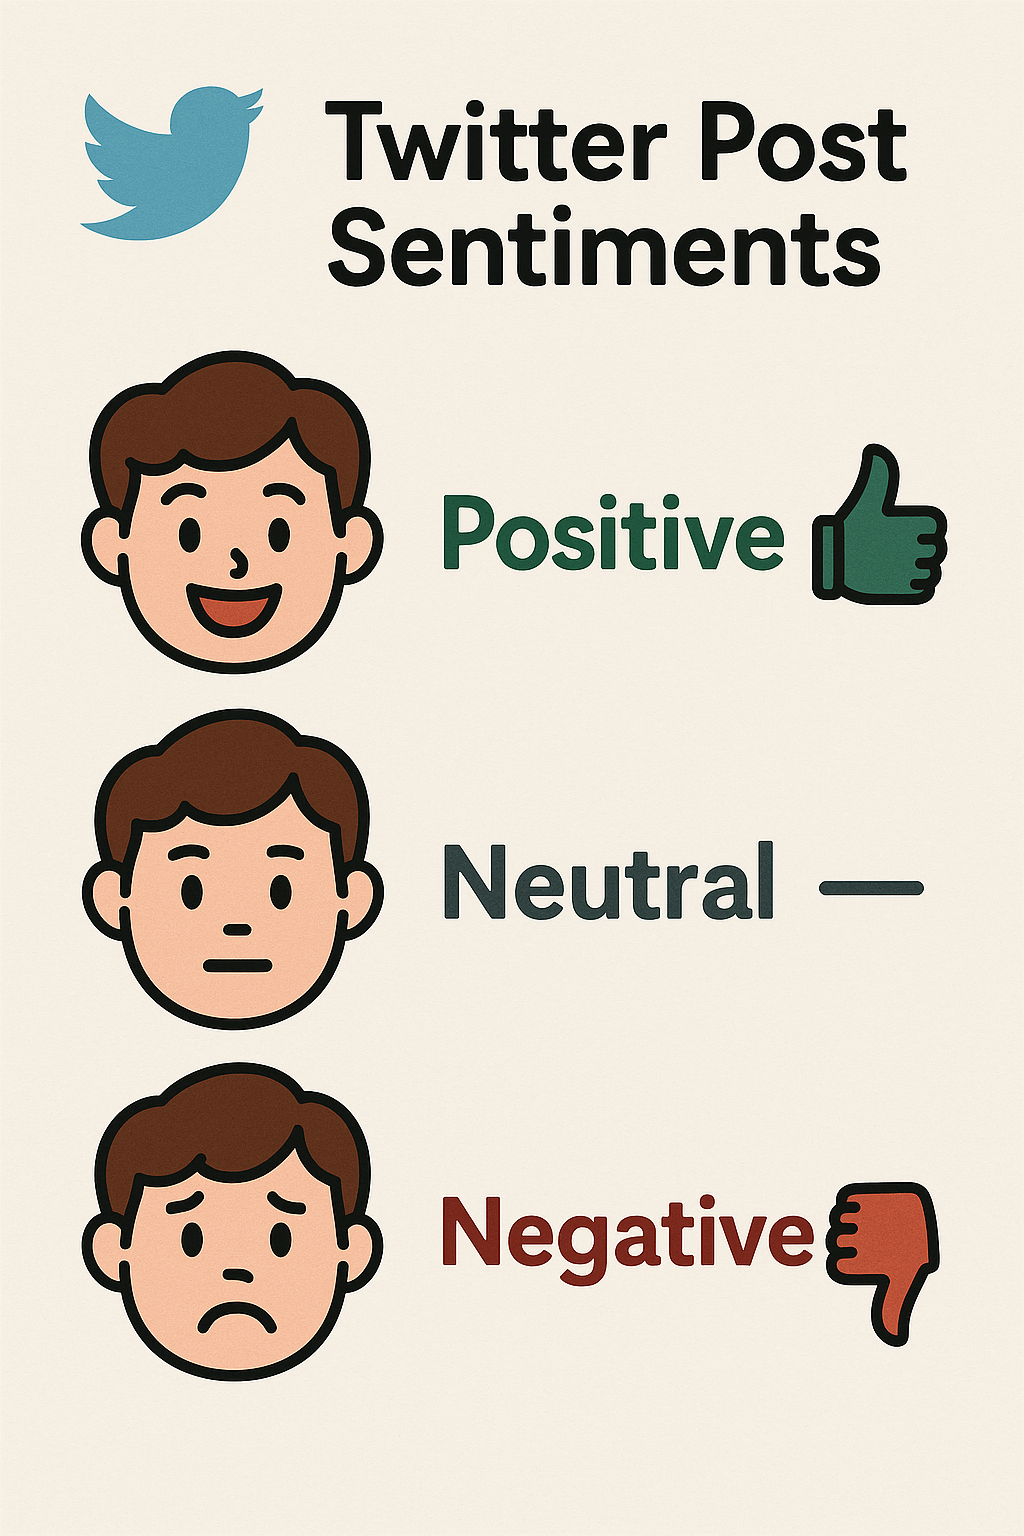
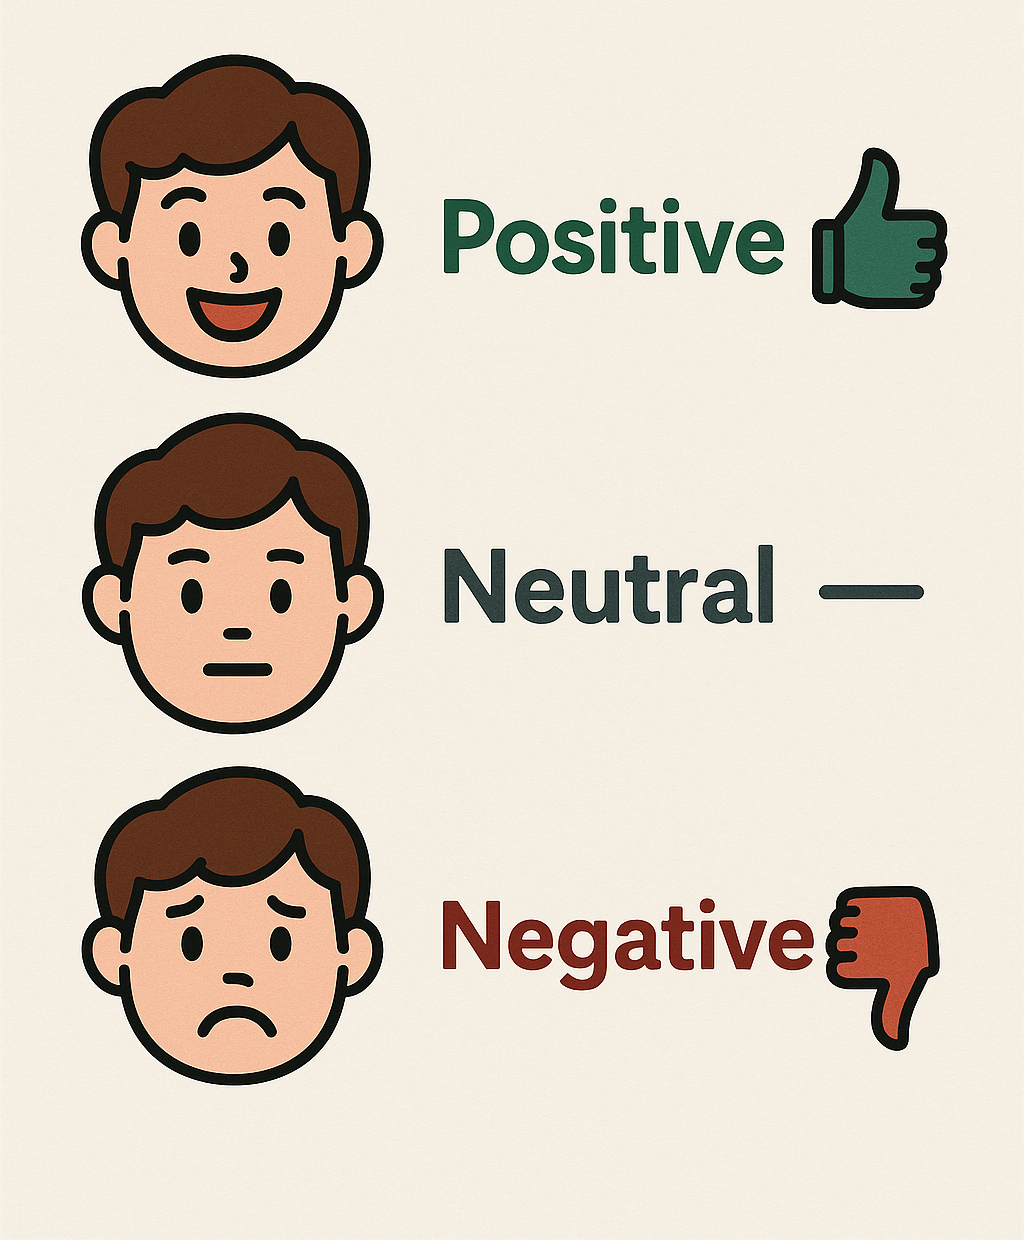
image change

diff --git a/src/components/projects-section.tsx b/src/components/projects-section.tsx
@@ -75,17 +75,17 @@ const ProjectsSection: React.FC = () => {
       title: "Twitter Post Sentiment Prediction",
       description: "Engineered an ETL pipeline with PySpark and SQL for sentiment analysis using NLP techniques. Monitored performance through MLFlow on Databricks.",
       tags: ["NLP", "PySpark", "MLFlow"],
-      imageUrl: "https://images.unsplash.com/photo-1551288049-bebda4e38f71?ixlib=rb-4.0.3&ixid=MnwxMjA3fDB8MHxwaG90by1wYWdlfHx8fGVufDB8fHx8&auto=format&fit=crop&w=800&h=400",
+      imageUrl: "https://raw.githubusercontent.com/vijaytakbhate2002/portfolio-web/main/public/Tweeter_post_sentiment.png",
       demoUrl: "https://www.linkedin.com/posts/vijay-takbhate-b9231a236_learning-day-31-integrating-database-activity-7264965901945315328-02wc?utm_source=share&utm_medium=member_desktop&rcm=ACoAADrHnx4Ba4HkdcW3hhRgbi-Dj08HJE4l5ZI",
       codeUrl: "https://github.com/vijaytakbhate2002/sentiment_prediction_python_package.git"
     },
     {
       title: "🏋 Predicting Calorie 🚀 | EDA to Submission",
-      description: "his notebook walks through the end-to-end process of building a machine learning model to predict calorie expenditure based on physical activity data. We'll analyze the dataset, explore patterns, and train an efficient model to make accurate predictions.",
+      description: "This notebook walks through the end-to-end process of building a machine learning model to predict calorie expenditure based on physical activity data. We'll analyze the dataset, explore patterns, and train an efficient model to make accurate predictions.",
       tags: ["EDA", "Python", "Kaggle Notebook"],
-      imageUrl: "https://www.kaggle.com/code/vijay20213/predicting-calorie-eda-to-submission",
-      demoUrl: "#",
-      codeUrl: "#"
+      imageUrl: "https://raw.githubusercontent.com/vijaytakbhate2002/portfolio-web/main/public/Calories_Expanditure_Prediction.webp",
+      demoUrl: "https://www.kaggle.com/code/vijay20213/predicting-calorie-eda-to-submission",
+      codeUrl: "https://www.kaggle.com/code/vijay20213/predicting-calorie-eda-to-submission"
     },
     {
       title: "Text-Text Chat-Bot",
